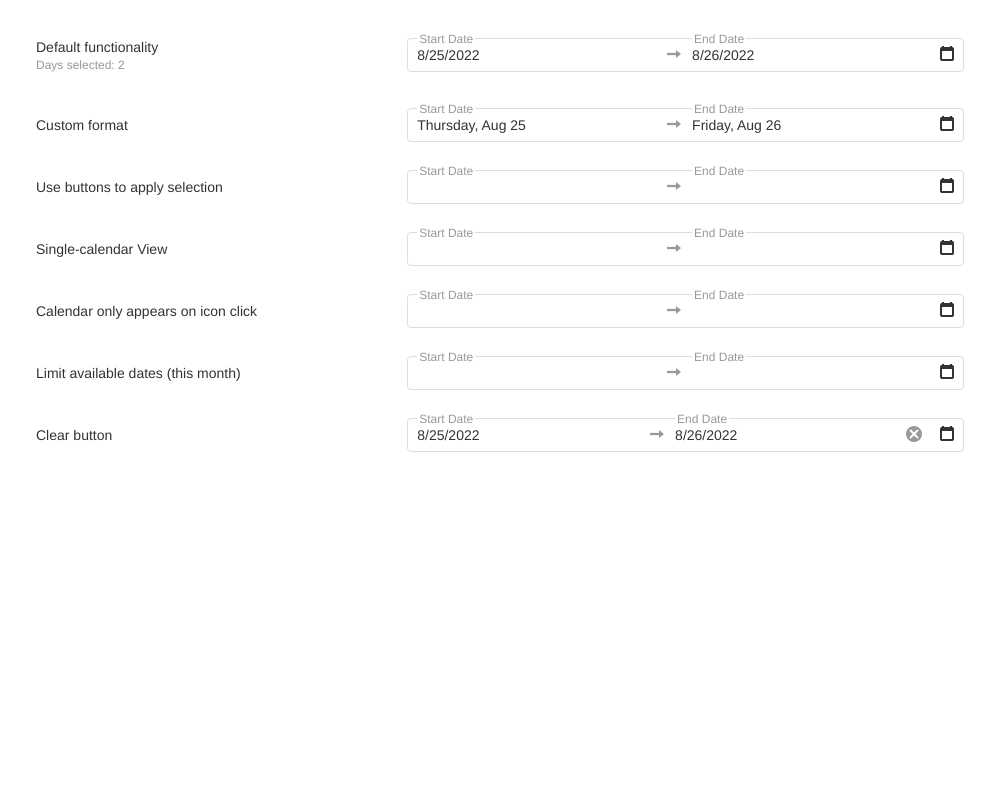
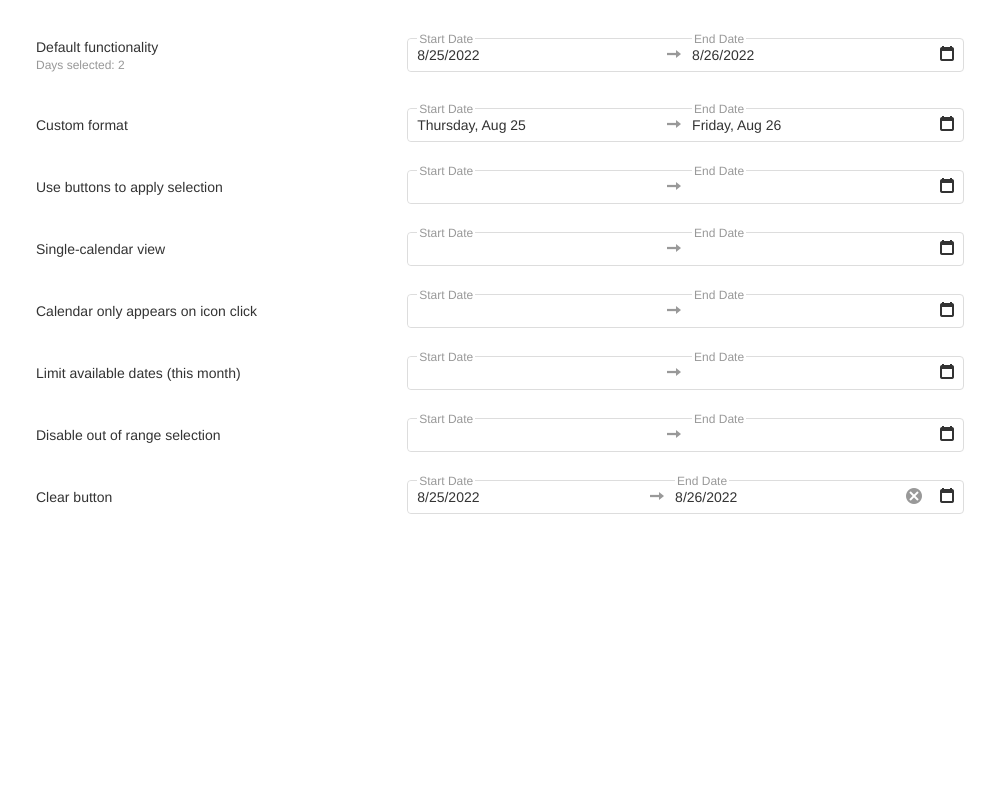
DRB Demo: add disableOutOfRangeSelection property demonstration (#2964)
* add disableOutOfRangeSelection property demonstration

* update baselines

* PR requested changes

* baseline updated

* change reactJs  demo

diff --git a/JSDemos/Demos/DateRangeBox/Overview/jQuery/index.html b/JSDemos/Demos/DateRangeBox/Overview/jQuery/index.html
@@ -40,7 +40,7 @@
           </div>
         </div>
         <div class="dx-field">
-          <div class="dx-field-label">Single-calendar View</div>
+          <div class="dx-field-label">Single-calendar view</div>
           <div class="dx-field-value">
             <div id="single-view"></div>
           </div>
@@ -55,6 +55,12 @@
           <div class="dx-field-label">Limit available dates (this month)</div>
           <div class="dx-field-value">
             <div id="current-month-only"></div>
+          </div>
+        </div>
+        <div class="dx-field">
+          <div class="dx-field-label">Disable out of range selection</div>
+          <div class="dx-field-value">
+            <div id="disable-out-of-range-selection"></div>
           </div>
         </div>
         <div class="dx-field">

diff --git a/JSDemos/Demos/DateRangeBox/Overview/Angular/app/app.component.html b/JSDemos/Demos/DateRangeBox/Overview/Angular/app/app.component.html
@@ -29,7 +29,7 @@
     </div>
   </div>
   <div class="dx-field">
-    <div class="dx-field-label">Single-calendar View</div>
+    <div class="dx-field-label">Single-calendar view</div>
     <div class="dx-field-value">
       <dx-date-range-box [multiView]="false"></dx-date-range-box>
     </div>
@@ -44,6 +44,13 @@
     <div class="dx-field-label">Limit available dates (this month)</div>
     <div class="dx-field-value">
       <dx-date-range-box [min]="min" [max]="max"></dx-date-range-box>
+    </div>
+  </div>
+  <div class="dx-field">
+    <div class="dx-field-label">Disable out of range selection</div>
+    <div class="dx-field-value">
+      <dx-date-range-box [disableOutOfRangeSelection]="true">
+      </dx-date-range-box>
     </div>
   </div>
   <div class="dx-field">

diff --git a/JSDemos/Demos/DateRangeBox/Overview/React/App.tsx b/JSDemos/Demos/DateRangeBox/Overview/React/App.tsx
@@ -66,7 +66,7 @@ export default function App() {
         </div>
       </div>
       <div className="dx-field">
-        <div className="dx-field-label">Single-calendar View</div>
+        <div className="dx-field-label">Single-calendar view</div>
         <div className="dx-field-value">
           <DateRangeBox multiView={false} />
         </div>
@@ -84,6 +84,12 @@ export default function App() {
             min={min}
             max={max}
           />
+        </div>
+      </div>
+      <div className="dx-field">
+        <div className="dx-field-label">Disable out of range selection</div>
+        <div className="dx-field-value">
+          <DateRangeBox disableOutOfRangeSelection={true} />
         </div>
       </div>
       <div className="dx-field">

diff --git a/JSDemos/Demos/DateRangeBox/Overview/ReactJs/App.js b/JSDemos/Demos/DateRangeBox/Overview/ReactJs/App.js
@@ -56,7 +56,7 @@ export default function App() {
         </div>
       </div>
       <div className="dx-field">
-        <div className="dx-field-label">Single-calendar View</div>
+        <div className="dx-field-label">Single-calendar view</div>
         <div className="dx-field-value">
           <DateRangeBox multiView={false} />
         </div>
@@ -74,6 +74,12 @@ export default function App() {
             min={min}
             max={max}
           />
+        </div>
+      </div>
+      <div className="dx-field">
+        <div className="dx-field-label">Disable out of range selection</div>
+        <div className="dx-field-value">
+          <DateRangeBox disableOutOfRangeSelection={true} />
         </div>
       </div>
       <div className="dx-field">

diff --git a/JSDemos/Demos/DateRangeBox/Overview/Vue/App.vue b/JSDemos/Demos/DateRangeBox/Overview/Vue/App.vue
@@ -33,7 +33,7 @@
         </div>
       </div>
       <div class="dx-field">
-        <div class="dx-field-label">Single-calendar View</div>
+        <div class="dx-field-label">Single-calendar view</div>
         <div class="dx-field-value">
           <DxDateRangeBox
             :multi-view="false"
@@ -54,6 +54,14 @@
           <DxDateRangeBox
             :min="min"
             :max="max"
+          />
+        </div>
+      </div>
+      <div class="dx-field">
+        <div class="dx-field-label">Disable out of range selection</div>
+        <div class="dx-field-value">
+          <DxDateRangeBox
+            :disable-out-of-range-selection="true"
           />
         </div>
       </div>

diff --git a/JSDemos/Demos/DateRangeBox/Overview/jQuery/index.js b/JSDemos/Demos/DateRangeBox/Overview/jQuery/index.js
@@ -37,6 +37,10 @@ $(() => {
     value: initialValue,
   });
 
+  $('#disable-out-of-range-selection').dxDateRangeBox({
+    disableOutOfRangeSelection: true,
+  });
+
   function getCurrentMonthRange() {
     const lastDay = new Date(now.getFullYear(), now.getMonth() + 1, 0).getDate();
 
